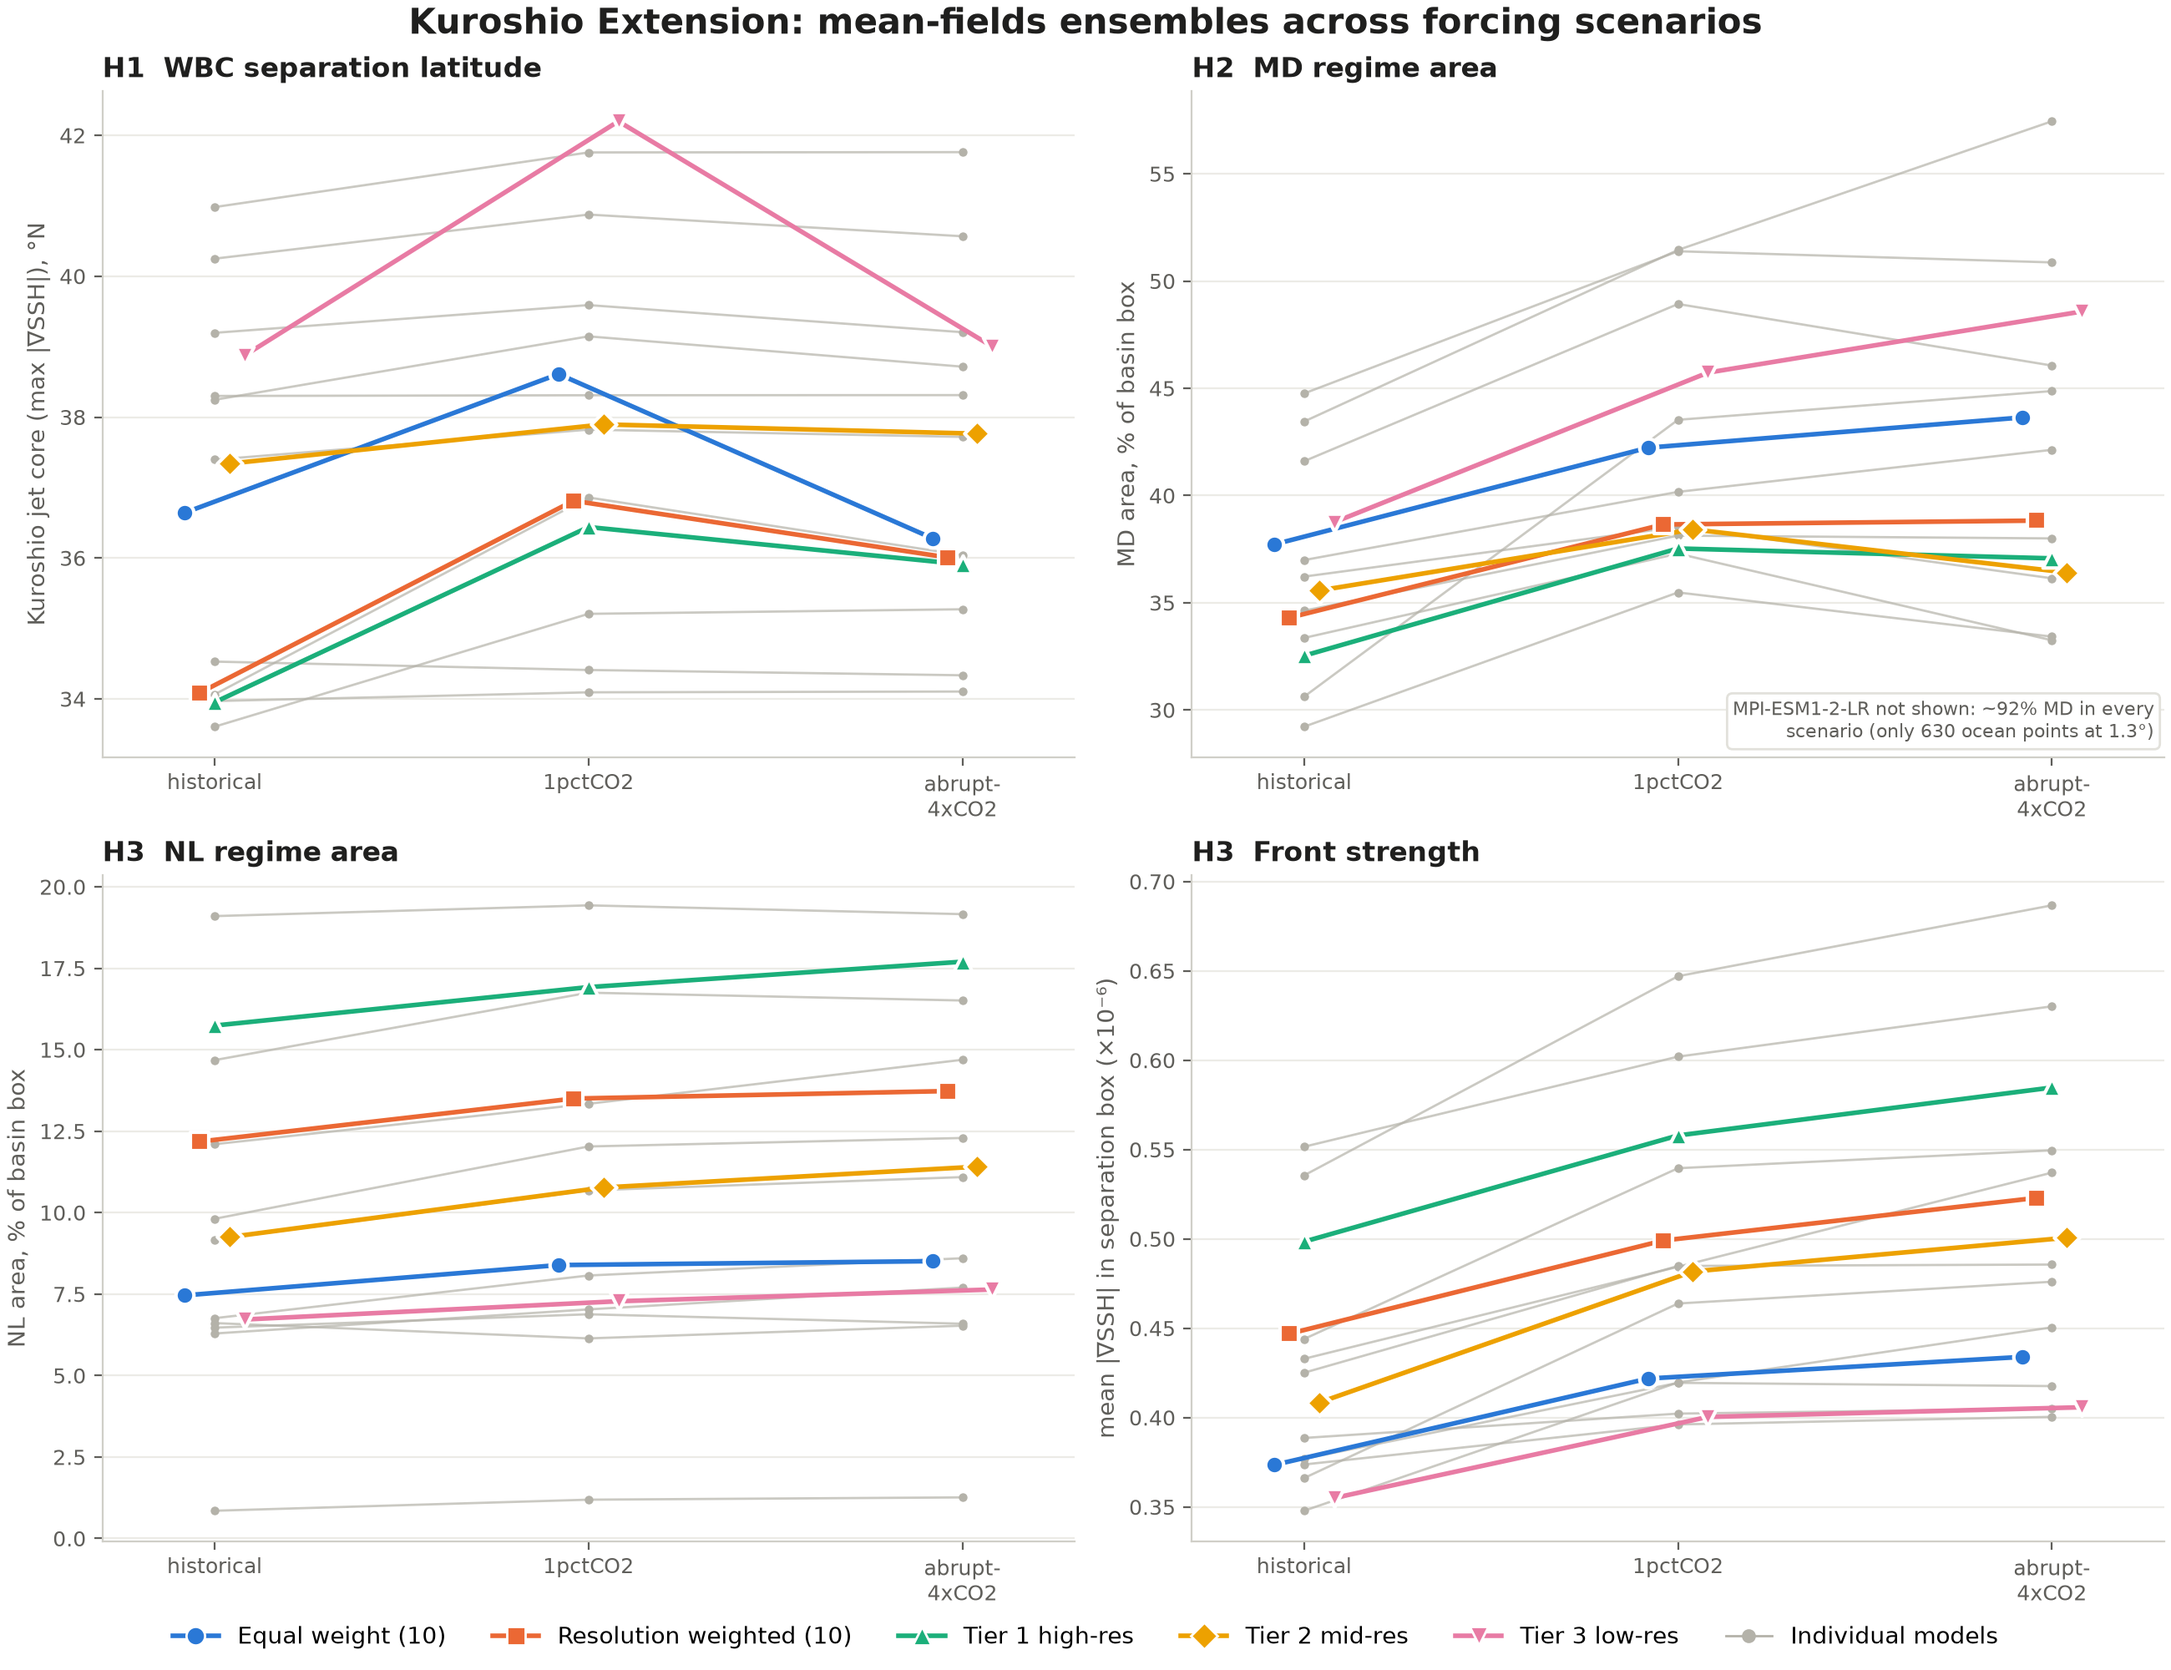
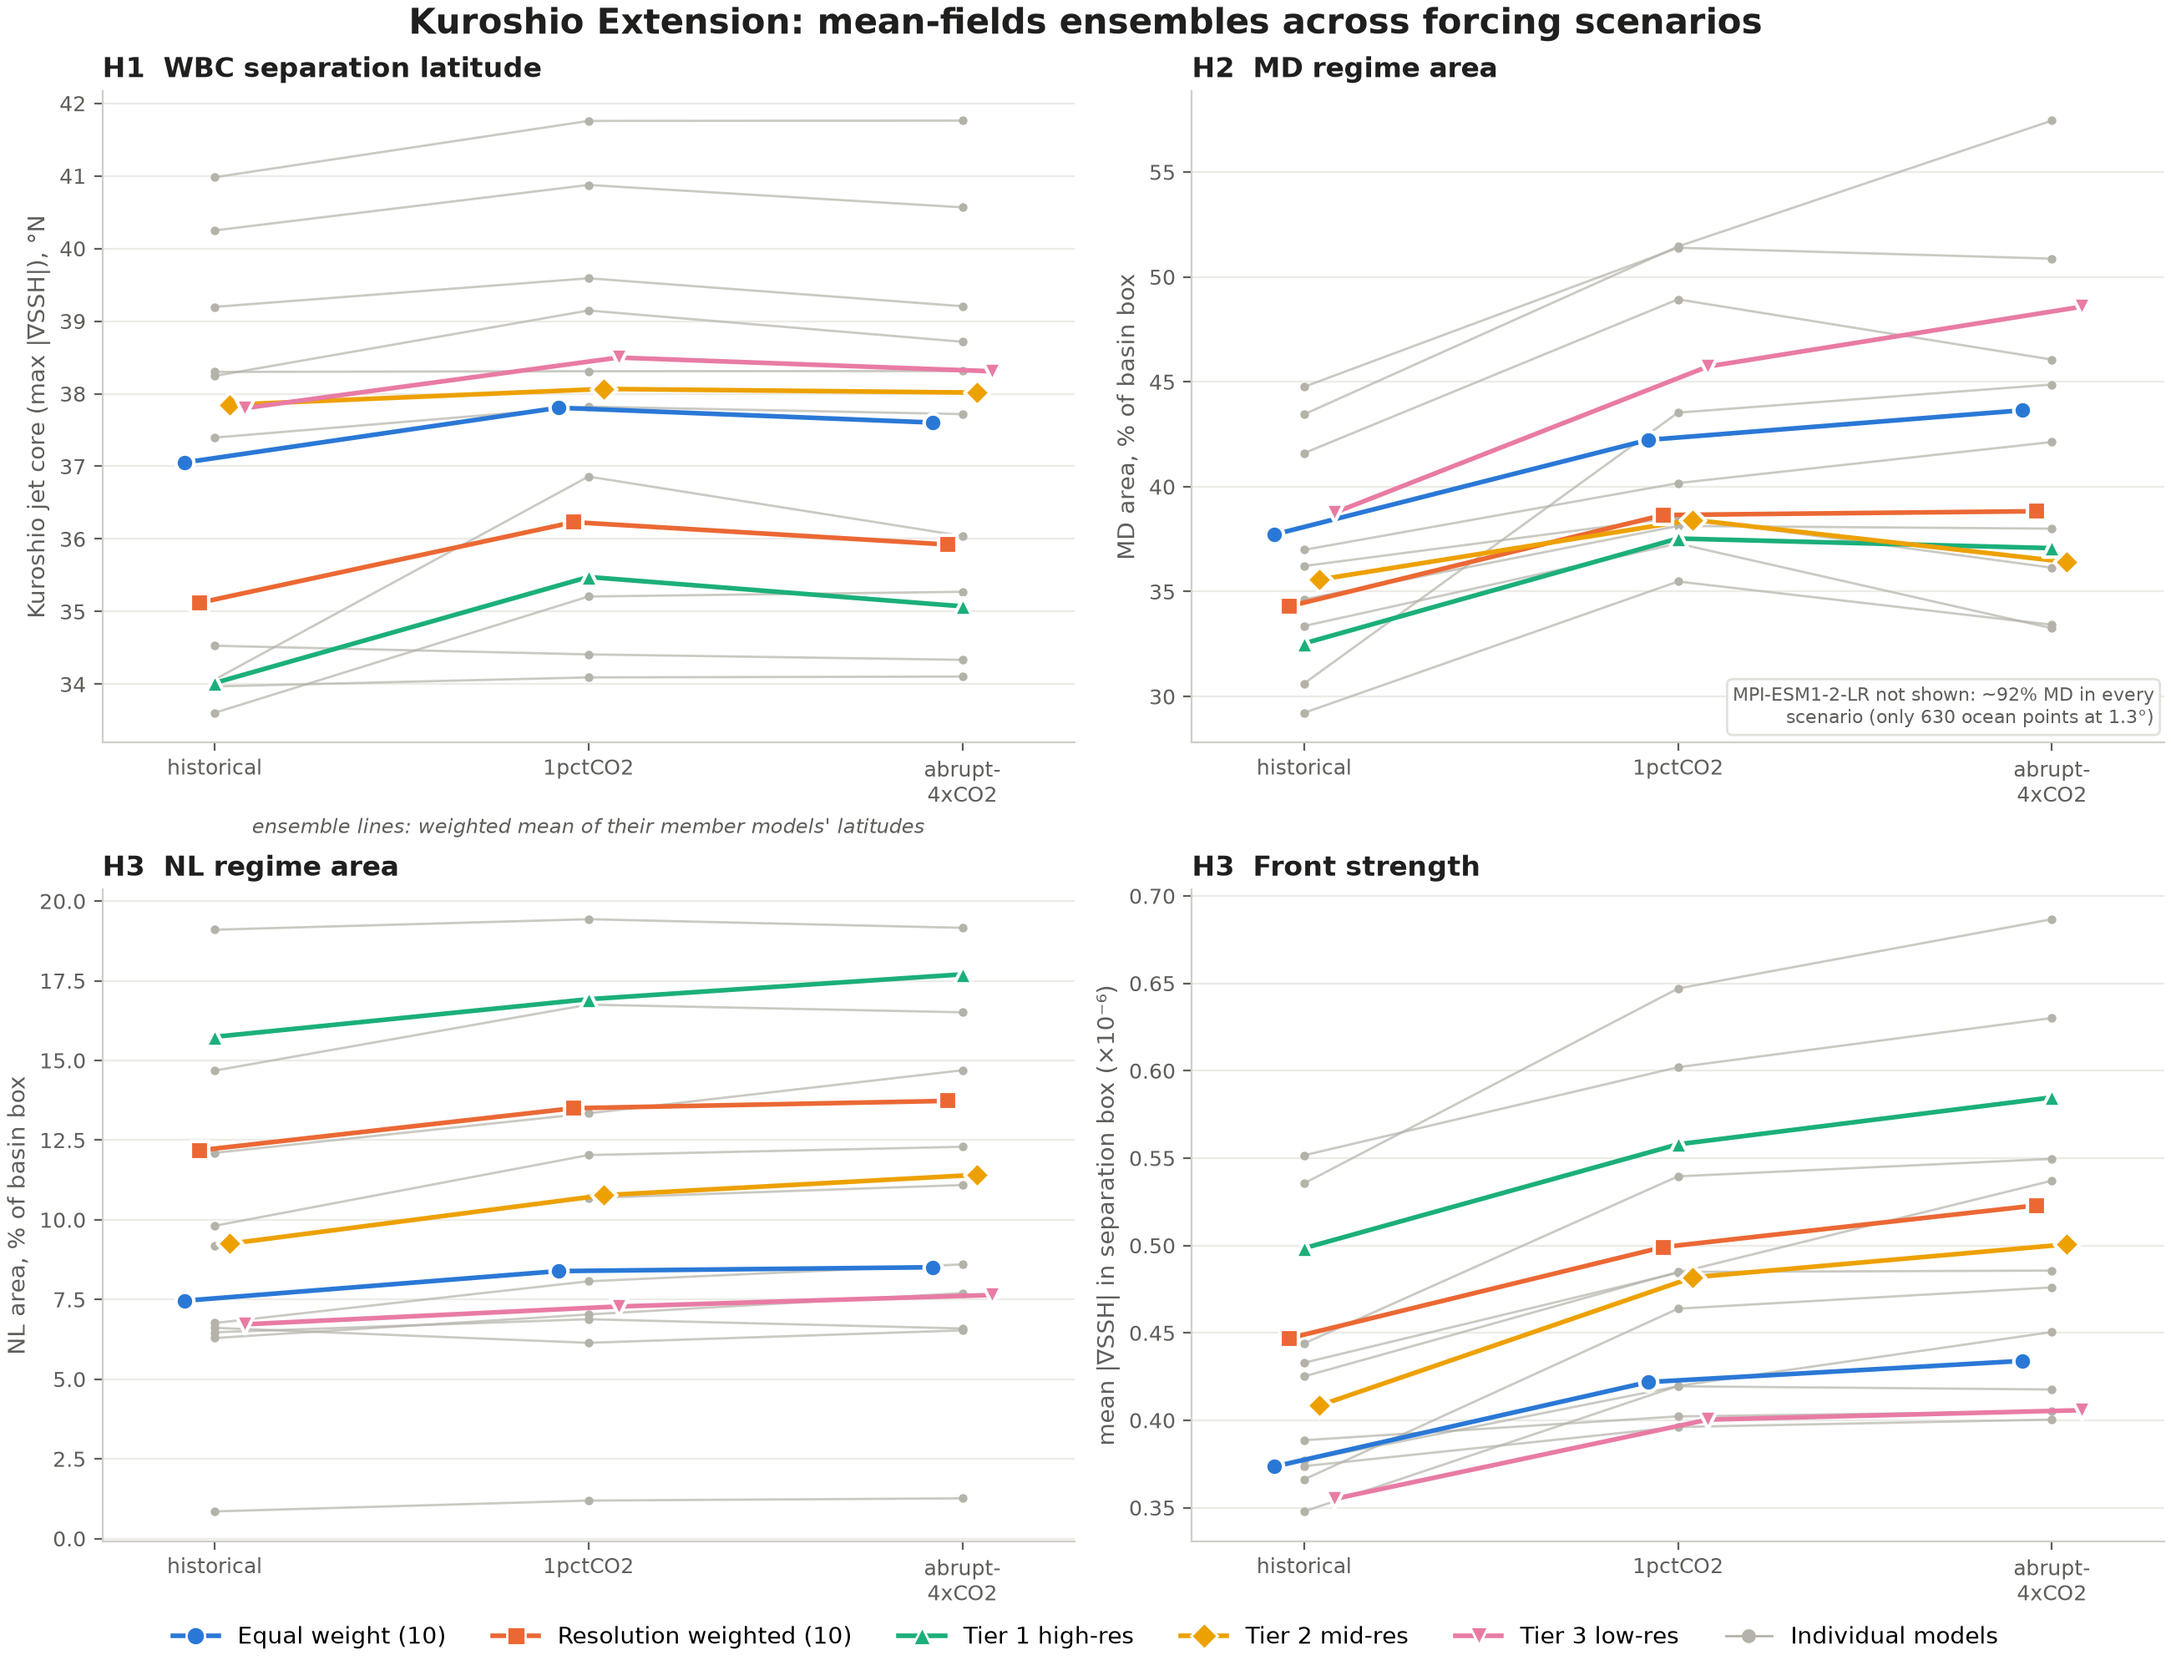
Use members' mean separation latitude for the ensemble lines
The jet-finder run on an ensemble-averaged SSH field hopped across a flat
plateau (members' jets sit ~34-42N), producing 2-3 deg 1pctCO2 spikes no
member shows. Ensemble separation is now the weighted mean of the member
models' own latitudes, with each ensemble's own weights.

Claude-Session: https://claude.ai/code/session_015gFJT1KfipdKTfTEabUJuP

diff --git a/index.html b/index.html
@@ -321,7 +321,7 @@ const TYPES = [
   { id: "ensemble_mean_fields", label: "Ensemble mean · physical fields", min: 480, sub: false,
     desc: "The mean ensemble's 8 physical input features across historical/1pctCO2/abrupt-4xCO2 plus a change column, same layout as the per-model physical-fields plots - the direct multi-model analogue of looking at one model's raw fields. Kuroshio Extension, North Atlantic, and Gulf Stream separation-window crops." },
   { id: "hypotheses", label: "Poster hypotheses", min: 480, sub: false,
-    desc: "The three working hypotheses, tracked across historical, 1pctCO2, and abrupt-4xCO2. Colored lines are the five mean-fields ensembles; gray lines are the ten individual models. One figure per basin: H1 western boundary current separation latitude (North Atlantic: where the zonal-mean wind-stress curl first crosses zero in the Gulf Stream separation window; Kuroshio: sub-grid latitude of the strongest SSH gradient), H2 MD regime area, H3 NL regime area, and front strength (mean SSH-gradient magnitude in the separation box). A third figure sets the two basins' NL change side by side and against the change in front strength. 1pctCO2 and abrupt-4xCO2 are both averaged over experiment years 131–150, when both carry about 4× CO2, so read them as two routes to similar forcing rather than increasing forcing; the gaps between them are within each run's own window-to-window variability. Vote ensembles aren't shown, since they carry no averaged physical fields." },
+    desc: "The three working hypotheses, tracked across historical, 1pctCO2, and abrupt-4xCO2. Colored lines are the five mean-fields ensembles; gray lines are the ten individual models. One figure per basin: H1 western boundary current separation latitude (North Atlantic: where the zonal-mean wind-stress curl first crosses zero in the Gulf Stream separation window; Kuroshio: sub-grid latitude of the strongest SSH gradient; for the ensembles, the weighted mean of their member models' own latitudes, since averaging SSH from models whose jets sit at different latitudes smears them into a plateau with no clear peak), H2 MD regime area, H3 NL regime area, and front strength (mean SSH-gradient magnitude in the separation box). A third figure sets the two basins' NL change side by side and against the change in front strength. 1pctCO2 and abrupt-4xCO2 are both averaged over experiment years 131–150, when both carry about 4× CO2, so read them as two routes to similar forcing rather than increasing forcing; the gaps between them are within each run's own window-to-window variability. Vote ensembles aren't shown, since they carry no averaged physical fields." },
   { id: "regime_area_trends", label: "Regime area trends", min: 480, sub: false,
     desc: "Area of each of the six THOR regimes as a percentage of the basin box across the three experiments, for the ten models (gray) and the five mean-fields ensembles (colored). Each panel's box counts how many of the 15 cases gain or lose area from historical to abrupt-4xCO2, and gives the average change across the ensembles in percentage points. Areas use each grid's true cell area rather than cell counts, since native resolution varies about 20× across the models." },
   { id: "scenario_fields", label: "Physical fields across scenarios", min: 480, sub: false,
